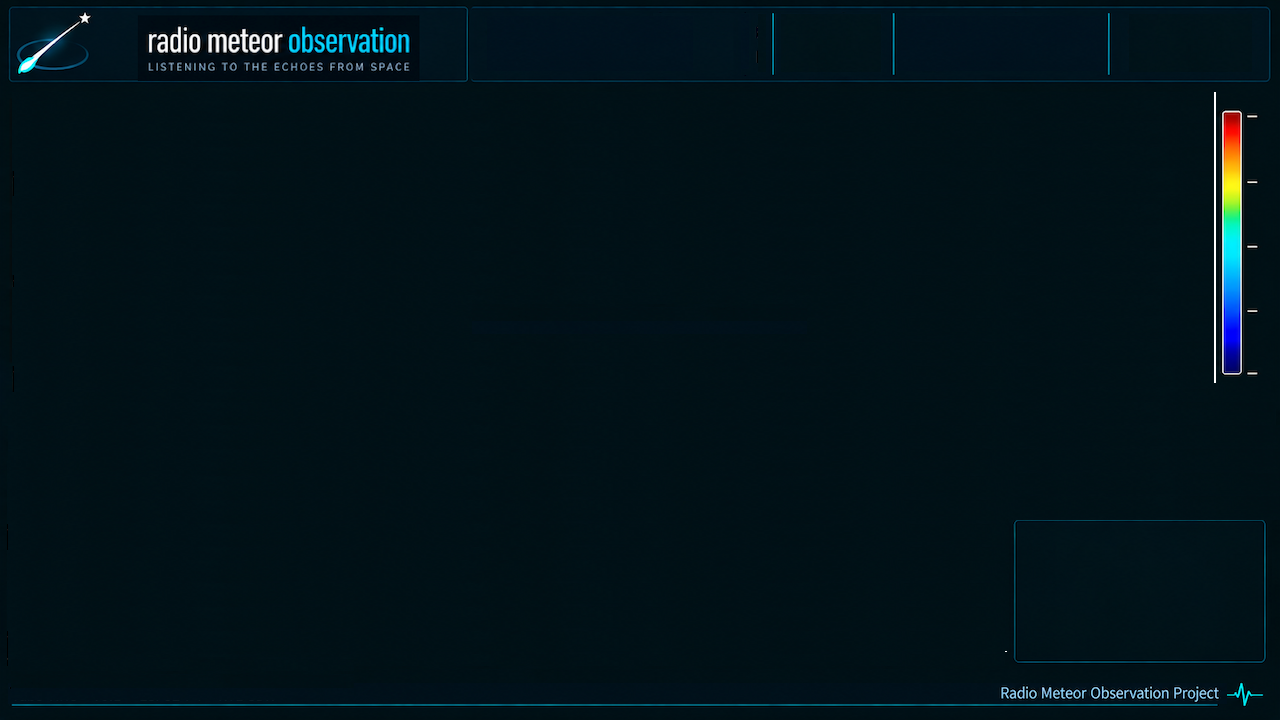
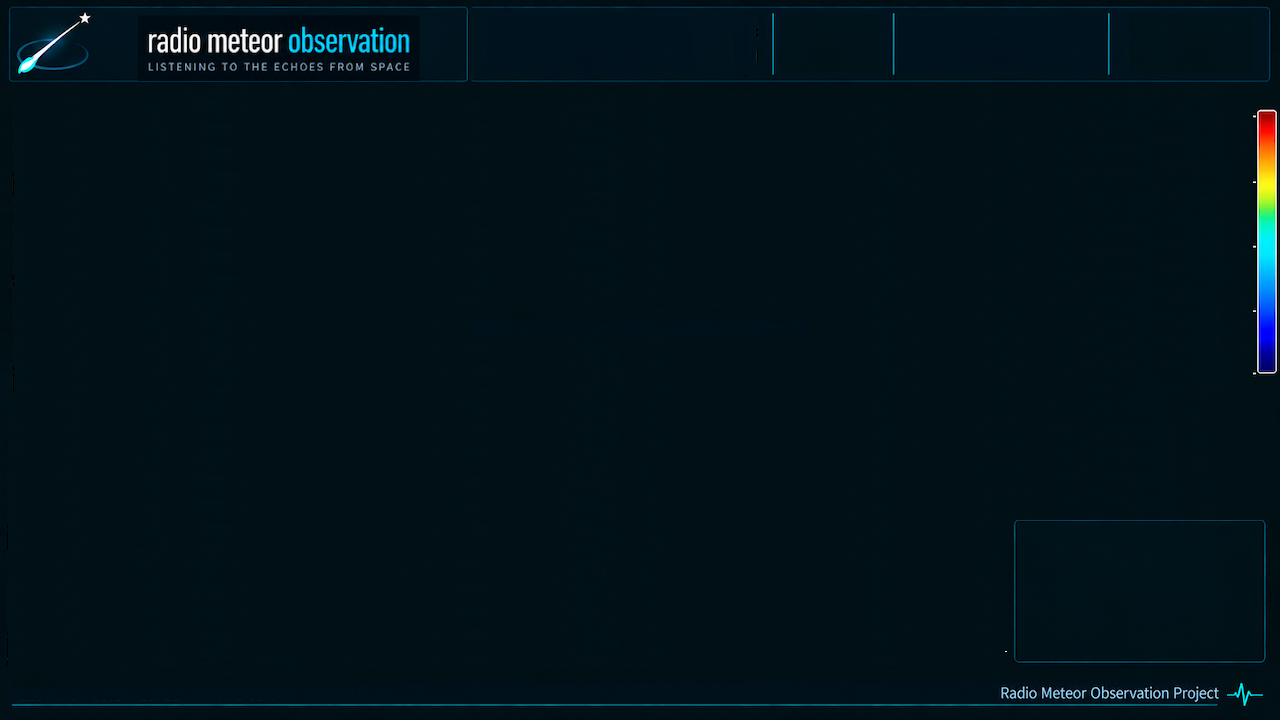
Expand live monitor to 20-minute display

Changed region(s): [[0.9375, 0.1528, 1.0, 0.5194]]

diff --git a/ui/web/monitor.html b/ui/web/monitor.html
@@ -46,8 +46,8 @@ body {
 // ============================================================
 
 // Time-scroll area
-const SCROLL_LEFT  = 63;
-const SCROLL_RIGHT = 1190;
+const SCROLL_LEFT  = 53;
+const SCROLL_RIGHT = 1253;
 const SCROLL_TOP   = 98;
 
 // Time axis
@@ -61,7 +61,7 @@ const LEVEL_H      = 80;
 const LEVEL_BOTTOM = LEVEL_TOP + LEVEL_H;    // 450
 
 // Display duration
-const DISPLAY_SECONDS = 600;
+const DISPLAY_SECONDS = 1200;
 
 const WATERFALL_WIDTH  = SCROLL_RIGHT - SCROLL_LEFT;
 const WATERFALL_HEIGHT = WATERFALL_BOTTOM - WATERFALL_TOP;
@@ -465,23 +465,33 @@ function drawTimeAxis(now)
     ctx.font = '600 10px "HRO-Nunito"';
     ctx.textBaseline = 'bottom';
 
-    // 現在時刻より少し未来まで作る
+    // 現在時刻より2分未来から開始
     // → 次の時刻目盛りが右側からスクロールして入ってくる
     const tick = new Date(now);
     tick.setSeconds(0, 0);
     tick.setMinutes(tick.getMinutes() + 2);
 
-    for (let i = 0; i <= 12; ++i)
+    // 表示時間 + 2分先行分
+    const displayMinutes =
+        Math.ceil(DISPLAY_SECONDS / 60);
+
+    const tickMinutes =
+        displayMinutes + 2;
+
+    for (let i = 0; i <= tickMinutes; ++i)
     {
-        const t = new Date(tick.getTime() - i * 60000);
-        const x = timeToX(t.getTime(), nowMs);
+        const t =
+            new Date(tick.getTime() - i * 60000);
+
+        const x =
+            timeToX(t.getTime(), nowMs);
 
         if (x < SCROLL_LEFT || x > SCROLL_RIGHT)
             continue;
 
-        const major = (t.getMinutes() % 2 === 0);
+        const major =
+            (t.getMinutes() % 2 === 0);
 
-        // 目盛り
         ctx.beginPath();
         ctx.moveTo(x, TIME_AXIS_Y);
         ctx.lineTo(
@@ -490,15 +500,16 @@ function drawTimeAxis(now)
         );
         ctx.stroke();
 
-        // 2分ごとの時刻表示
         if (major)
         {
-            const hh = String(t.getHours()).padStart(2, '0');
-            const mm = String(t.getMinutes()).padStart(2, '0');
+            const hh =
+                String(t.getHours()).padStart(2, '0');
+
+            const mm =
+                String(t.getMinutes()).padStart(2, '0');
 
             ctx.textAlign = 'center';
 
-            // 文字は目盛りの上
             ctx.fillText(
                 `${hh}:${mm}`,
                 x,
